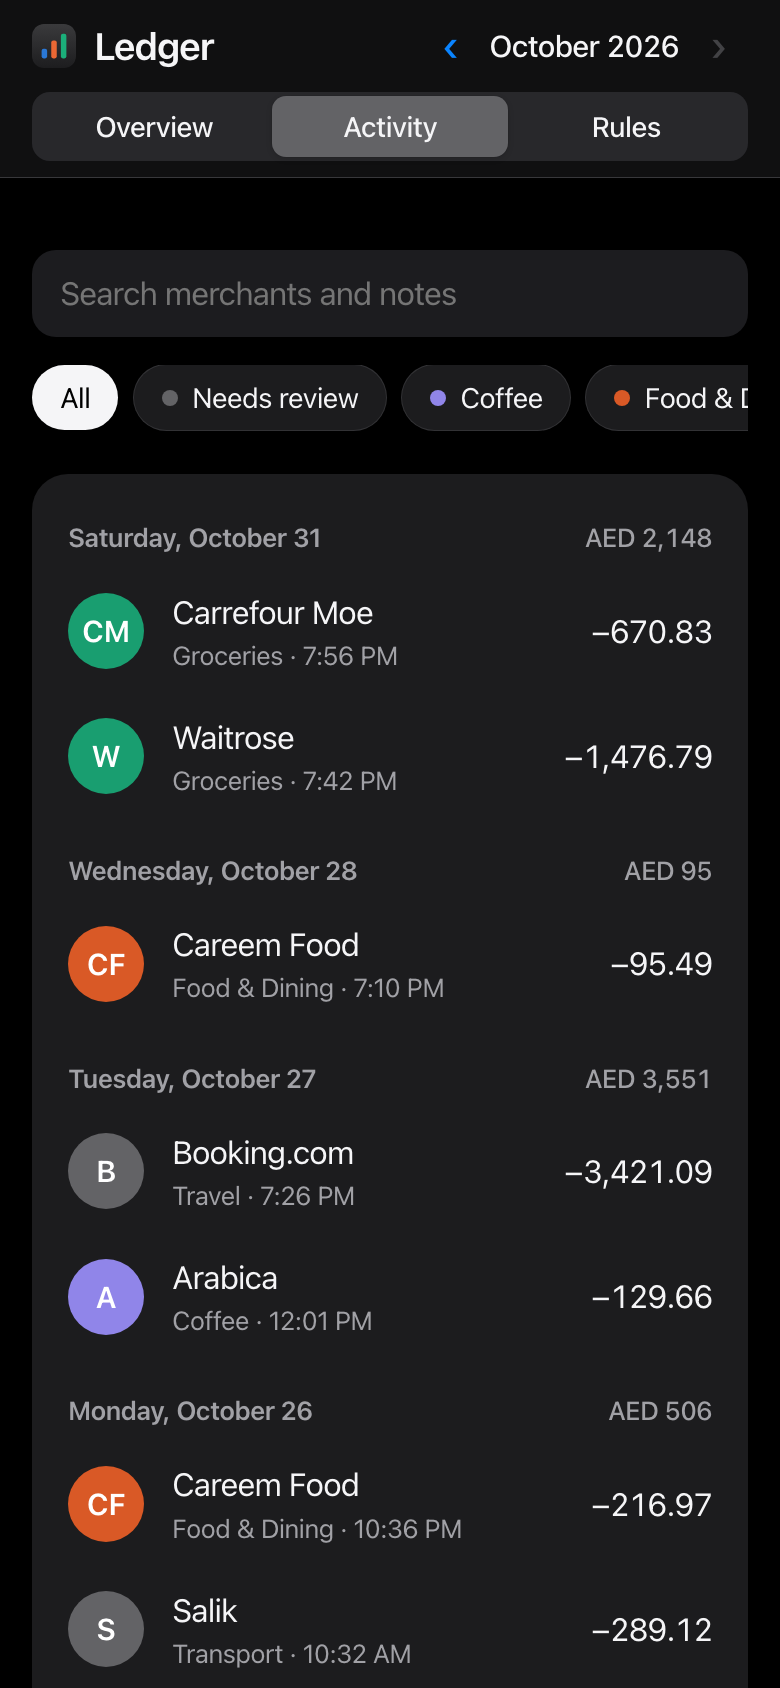
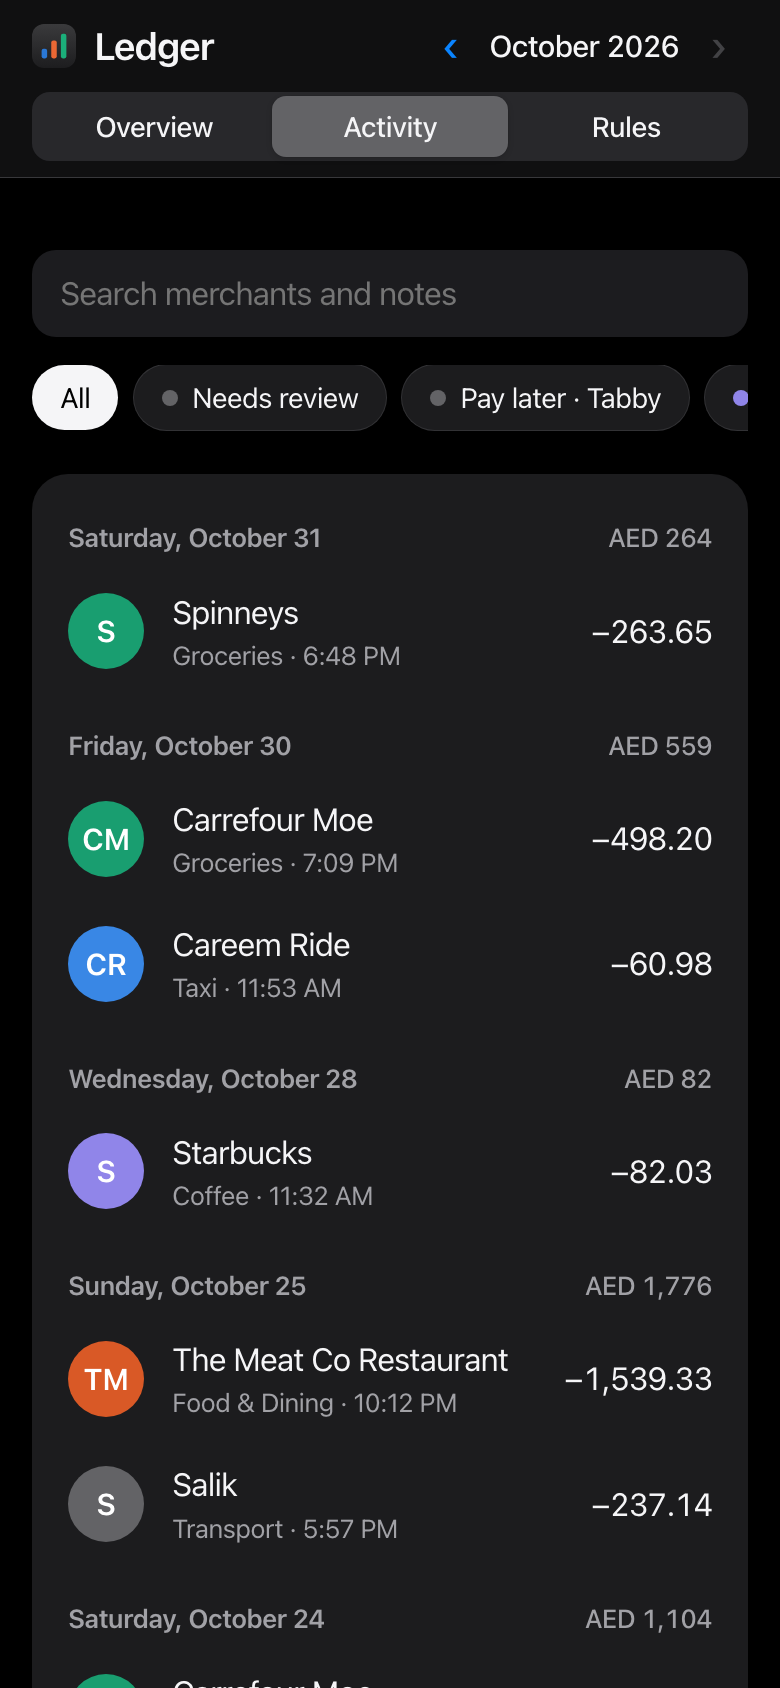
Pay later: split itemised receipts, handle schedule updates; more UAE retailers
- Tabby receipts that itemise several orders split the card charge so each
  part counts under its store; unmatched charges read simply 'Tabby'.
- 'Payment schedule update' emails update the order total.
- Broader list of well-known UAE retailers and services.
- README and screenshots show the Pay later card.

diff --git a/inbox_ledger/paylater.py b/inbox_ledger/paylater.py
@@ -8,7 +8,7 @@ with the event of the same amount closest in time, and re-label the charge.
 from __future__ import annotations
 
 import re
-from dataclasses import dataclass, field
+from dataclasses import dataclass, field, replace
 from datetime import datetime, timezone
 from pathlib import Path
 from typing import Iterable, Optional
@@ -37,6 +37,7 @@ class Event:
     instalments: Optional[int] = None
     next_due: str = ""
     full_refund: bool = False
+    items: list = field(default_factory=list)  # [(store, amount)] for itemised receipts
 
 
 @dataclass
@@ -63,6 +64,9 @@ def load_provider(path: Path) -> Provider:
             "store": [re.compile(p.replace("{amount}", amount), re.S) for p in e.get("store", [])],
             "fields": {k: re.compile(v.replace("{amount}", amount), re.S) for k, v in e.get("fields", {}).items()},
             "count": re.compile(e["count_instalments"]) if e.get("count_instalments") else None,
+            "items_after": re.compile(e["items_after"]) if e.get("items_after") else None,
+            "item": re.compile(e["item"]) if e.get("item") else None,
+            "item_store": [re.compile(p) for p in e.get("item_store", [])],
         })
     return Provider(spec["name"], [re.compile(s, re.I) for s in spec["senders"]], spec["card_merchant"],
                     float(spec.get("match_minutes", 30)), spec.get("gmail_query", ""), events)
@@ -110,6 +114,12 @@ def parse_event(msg: RawMessage, providers: Iterable[Provider]) -> Optional[Even
                     setattr(ev, name, _num(v))
             if spec["count"]:
                 ev.instalments = len(spec["count"].findall(msg.body)) + 1
+            if spec["item"] and spec["items_after"]:
+                start = spec["items_after"].search(msg.body)
+                for m in spec["item"].finditer(msg.body, start.end() if start else len(msg.body)):
+                    label = m.group("label").strip()
+                    store = next((x.group("v") for x in (r.search(label) for r in spec["item_store"]) if x), label)
+                    ev.items.append((store, _num(m.group("v"))))
             if ev.kind in PAYMENT_KINDS and not ev.paid:
                 return None
             return ev
@@ -130,8 +140,9 @@ def attach(txns: list[Transaction], events: list[Event], providers: list[Provide
     """
     by_provider = {p.name: p for p in providers}
     pairs: dict[str, str] = {}
+    parts: list[tuple[Transaction, list]] = []
     used: set[str] = set()
-    for t in sorted(txns, key=lambda t: t.occurred_at):
+    for t in sorted(list(txns), key=lambda t: t.occurred_at):
         p = next((p for p in providers if t.direction == "out" and t.merchant_key.startswith(p.card_merchant)), None)
         if not p:
             continue
@@ -147,6 +158,7 @@ def attach(txns: list[Transaction], events: list[Event], providers: list[Provide
                 best = (gap, e)
         if not best:
             t.extra["via"] = p.name
+            t.merchant, t.merchant_key = p.name, p.card_merchant  # "Tabby, 800…" -> "Tabby"
             continue
         e = best[1]
         used.add(e.message_id)
@@ -155,12 +167,26 @@ def attach(txns: list[Transaction], events: list[Event], providers: list[Provide
         if e.order:
             t.extra["order"] = e.order
         if e.store:
-            t.merchant_raw = e.store
-            t.merchant_key = merchant_key(e.store, location=False)  # store names carry no "<city> <CC>" suffix
-            t.merchant = display_name(e.store, location=False)
+            _relabel(t, e.store)
+        elif e.items and abs(sum(a for _, a in e.items) - t.amount) < 0.05:
+            parts.append((t, e.items))
         elif e.kind == "consolidated":
             t.merchant = f"{p.name} (several orders)"
+    for t, items in parts:  # one charge paid several orders: split it so each part counts under its store
+        i = txns.index(t)
+        pieces = []
+        for n, (store, amount) in enumerate(items, 1):
+            piece = replace(t, id=f"{t.id}-{n}", amount=amount, extra={**t.extra, "part": f"{n}/{len(items)}"})
+            _relabel(piece, store)
+            pieces.append(piece)
+        txns[i:i + 1] = pieces
     return pairs
+
+
+def _relabel(t: Transaction, store: str) -> None:
+    t.merchant_raw = store
+    t.merchant_key = merchant_key(store, location=False)  # store names carry no "<city> <CC>" suffix
+    t.merchant = display_name(store, location=False)
 
 
 def open_orders(events: list[Event], until: datetime) -> list[dict]:
@@ -177,6 +203,8 @@ def open_orders(events: list[Event], until: datetime) -> list[dict]:
         o["store"] = o["store"] or e.store
         if e.total and e.kind == "purchase":
             o["total"], o["instalments"] = e.total, e.instalments
+        elif e.total and e.kind == "update":
+            o["total"] = e.total
         if e.kind in PAYMENT_KINDS:
             o["paid"] += e.paid
             o["last_paid"] = e.at

diff --git a/tests/test_paylater.py b/tests/test_paylater.py
@@ -115,3 +115,25 @@ def test_final_payment_and_full_refund_close_orders():
     assert open_orders(evs, datetime(2027, 1, 1, tzinfo=timezone.utc)) == []
     evs = [parse_event(m, providers) for m in (purchase(), full_refund())]
     assert open_orders(evs, datetime(2027, 1, 1, tzinfo=timezone.utc)) == []
+
+
+def itemised(id="i1", date="2026-10-29T09:00:02Z"):
+    body = (" Thanks for your payment\nHere's a receipt for your payments.\n\n| Paid today |  120.50 |\n\n| |\n\n"
+            "Your payments\n\n| |\n\n| Demo Store Payment 5 of 12 |  20.50 |\n| October bill Pay Next Month |  60.00 |\n"
+            "| March payment Tabby Card |  40.00 |\n\nGot questions?")
+    return RawMessage(id, date, TABBY, "Here’s your Tabby payment receipt", body)
+
+
+def test_itemised_receipt_splits_the_charge(store):
+    store.add_messages([card("m1", "TABBY FZ LLC DUBAI AE", amount="120.50", date="2026-10-29T09:00:00Z",
+                             when="29-OCT-2026 01:00 PM"), itemised()])
+    assert store.rebuild()["unparsed"] == 0
+    parts = sorted((t["merchant"], t["amount"]) for t in store.transactions())
+    assert parts == [("Demo Store", 20.5), ("Pay Next Month", 60.0), ("Tabby Card", 40.0)]
+    assert store.summary("2026-10")["spent"] == 120.5
+
+
+def test_unmatched_tabby_charge_reads_tabby(store):
+    store.add_messages([card("m1", "Tabby, 800 DUBAI AE", amount="10.00")])
+    store.rebuild()
+    assert store.transactions()[0]["merchant"] == "Tabby"

diff --git a/inbox_ledger/store.py b/inbox_ledger/store.py
@@ -143,6 +143,7 @@ class Store:
         events = [e for e in (paylater.parse_event(m, self.providers) for m in pl_msgs) if e]
         pl_ids = {m.id for m in pl_msgs}
         txns = [t for t in (parse_message(m, self.banks) for m in msgs if m.id not in pl_ids) if t]
+        parsed = len(txns) + len(events)  # emails understood; a split charge later yields several rows
         pairs = paylater.attach(txns, events, self.providers, {b.name: b.timezone for b in self.banks})
         mirrors = find_mirrors(txns, self.banks)
         rules = {(r["merchant_key"], r["amount"]): r for r in self.db.execute("SELECT * FROM merchant_rules")}
@@ -175,7 +176,7 @@ class Store:
                 [(e.message_id, e.provider, e.kind, e.at.isoformat(), e.store, e.order, e.paid, e.remaining, e.total,
                   e.refunded, e.instalments, e.next_due, int(e.full_refund), pairs.get(e.message_id)) for e in events])
         out = {"messages": len(msgs), "transactions": len(txns), "mirrors": len(mirrors),
-               "unparsed": len(msgs) - len(txns) - len(events)}
+               "unparsed": len(msgs) - parsed}
         if self.providers:
             out["paylater"] = {"emails": len(events), "matched": len(pairs)}
         return out

diff --git a/README.md b/README.md
@@ -26,6 +26,7 @@ Most budgeting apps want your bank password, or a paid aggregator that doesn't s
 - **Removes double counting.** Banks often send two emails for one movement (a transfer receipt and a debit alert). Ledger pairs them and keeps one.
 - **Knows what isn't spending.** Moving money between your own accounts is tracked separately and never inflates your monthly total.
 - **Learns from one correction.** Tell it once that *Golden Sands* is Shopping, or that a transfer to someone is between your own accounts. That merchant is handled the same way, past and future, from then on. Every learned rule is listed and can be undone. A rule can also be tied to one exact amount, for when one app covers different things (your AED 32.50 coffee order on a food-delivery app, say).
+- **Understands pay-later.** A card charge that just says "Tabby" is paired with Tabby's own email (same amount, seconds apart) and shown as the real store, e.g. "Noon · via Tabby". Charges covering several orders are split. A Pay later card shows this month's instalments and what you still owe per order. Providers are YAML profiles too, so Tamara or Postpay can be added the same way.
 - **Your categories, not just ours.** Create a category from any transaction in two taps (name and colour), then budget and teach rules with it like a built-in one.
 - **Shows you the month.** Totals against last month, what came in and what you saved, a category breakdown, daily and hourly spending, a six-month trend, budgets per category, and top merchants. Light and dark mode, desktop and phone.
 
@@ -76,6 +77,8 @@ Copy [`inbox_ledger/defaults/banks/mashreq.yaml`](inbox_ledger/defaults/banks/ma
 - `senders`: which sender addresses this profile handles
 - `patterns`: one regex per email type, with named groups `amount`, `currency`, `last4`, `merchant`, `counterparty`, `when`, `transfer_type`, `status`
 - `dedupe`: which alert mirrors which receipt
+
+Pay-later providers live in [`defaults/paylater/`](inbox_ledger/defaults/paylater/) and follow the same idea: patterns for the provider's emails, plus `card_merchant`, the name the bank alert shows.
 
 Then run `python -m inbox_ledger rebuild`. Raw emails are stored, so improving a pattern re-parses your whole history instantly. Pull requests with new bank profiles are very welcome.
 
